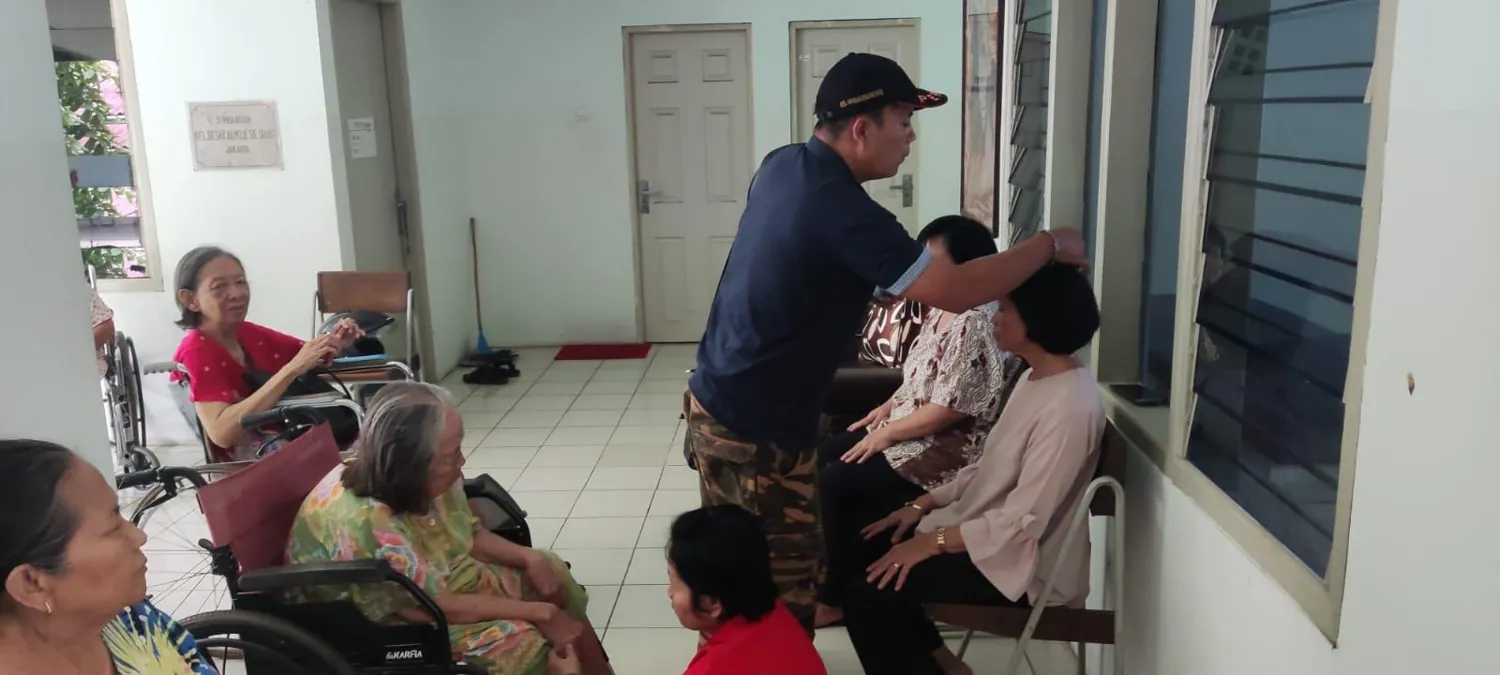
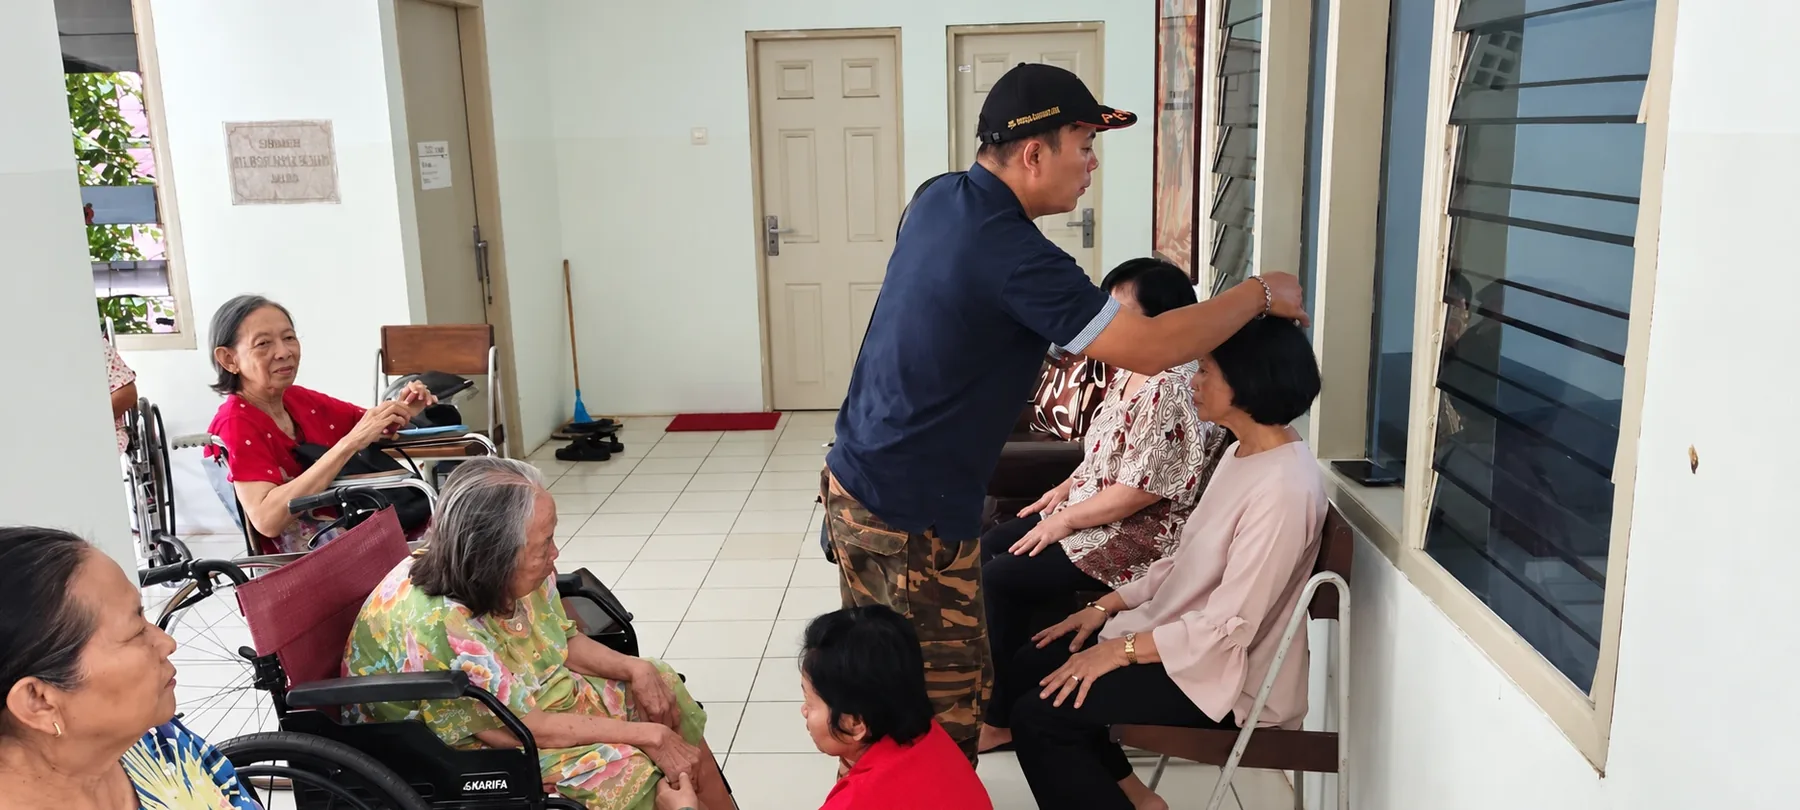
Ganti foto kegiatan dengan versi HD dari pemilik

diff --git a/src/halaman/index.html b/src/halaman/index.html
@@ -27,7 +27,7 @@
           <a class="tombol-teks" href="{{BASE}}tentang/">Baca profil lengkap <svg class="ikon" aria-hidden="true"><use href="{{BASE}}aset/img/ikon.svg#i-arrow-right"/></svg></a>
         </div>
         <figure class="profil-foto">
-          <img src="{{BASE}}aset/img/kegiatan/homma.webp" width="1500" height="672" alt="Umat duduk melingkar di sekitar tungku upacara Homma Jnana yang dihias bunga" loading="lazy">
+          <img src="{{BASE}}aset/img/kegiatan/homma.webp" width="1800" height="802" alt="Umat duduk melingkar di sekitar tungku upacara Homma Jnana yang dihias bunga" loading="lazy">
           <figcaption>Upacara suci Homma Jnana</figcaption>
         </figure>
       </div>
@@ -78,7 +78,7 @@
   </section>
 
   <section class="purnama" aria-labelledby="judul-purnama">
-    <img src="{{BASE}}aset/img/kegiatan/purnama.webp" width="1135" height="538" alt="Peserta duduk melingkar di halaman pada malam meditasi bulan purnama" loading="lazy">
+    <img src="{{BASE}}aset/img/kegiatan/purnama.webp" width="1800" height="854" alt="Peserta duduk melingkar di halaman pada malam meditasi bulan purnama" loading="lazy">
     <div class="purnama-isi">
       <p class="label">Program rutin</p>
       <h2 id="judul-purnama">Meditasi bulan purnama</h2>
@@ -115,9 +115,9 @@
         <a class="tombol-teks" href="{{BASE}}kabar/">Semua kabar <svg class="ikon" aria-hidden="true"><use href="{{BASE}}aset/img/ikon.svg#i-arrow-right"/></svg></a>
       </div>
       <div class="galeri galeri-tiga">
-        <figure><img src="{{BASE}}aset/img/kegiatan/lansia.webp" width="1500" height="675" alt="Pengurus mendoakan para lansia di teras panti werdha" loading="lazy"><figcaption>Pengobatan lansia di panti werda</figcaption></figure>
-        <figure><img src="{{BASE}}aset/img/kegiatan/talas.webp" width="1372" height="639" alt="Tiga orang menanam bibit talas di kebun" loading="lazy"><figcaption>Bantuan bibit talas Pratama 3</figcaption></figure>
-        <figure><img src="{{BASE}}aset/img/kegiatan/lebah.webp" width="372" height="430" alt="Pengurus di samping wadah hasil panen lebah trigona" loading="lazy"><figcaption>Edukasi lebah trigona</figcaption></figure>
+        <figure><img src="{{BASE}}aset/img/kegiatan/lansia.webp" width="1800" height="810" alt="Pengurus mendoakan para lansia di teras panti werdha" loading="lazy"><figcaption>Pengobatan lansia di panti werda</figcaption></figure>
+        <figure><img src="{{BASE}}aset/img/kegiatan/talas.webp" width="1800" height="839" alt="Tiga orang menanam bibit talas di kebun" loading="lazy"><figcaption>Bantuan bibit talas Pratama 3</figcaption></figure>
+        <figure><img src="{{BASE}}aset/img/kegiatan/lebah.webp" width="1166" height="1349" alt="Pengurus di samping wadah hasil panen lebah trigona" loading="lazy"><figcaption>Edukasi lebah trigona</figcaption></figure>
       </div>
     </div>
   </section>

diff --git a/aset/css/situs.css b/aset/css/situs.css
@@ -929,3 +929,4 @@ body { top: 0 !important; }
 }
 #tentang-yayasan { scroll-margin-top: 40px; }
 .baca-sampul.sampul-kosong { position: relative; display: block; aspect-ratio: 16 / 9; border-radius: var(--radius); overflow: hidden; }
+.galeri-tiga figure:nth-child(3) img { object-position: 50% 3%; }
